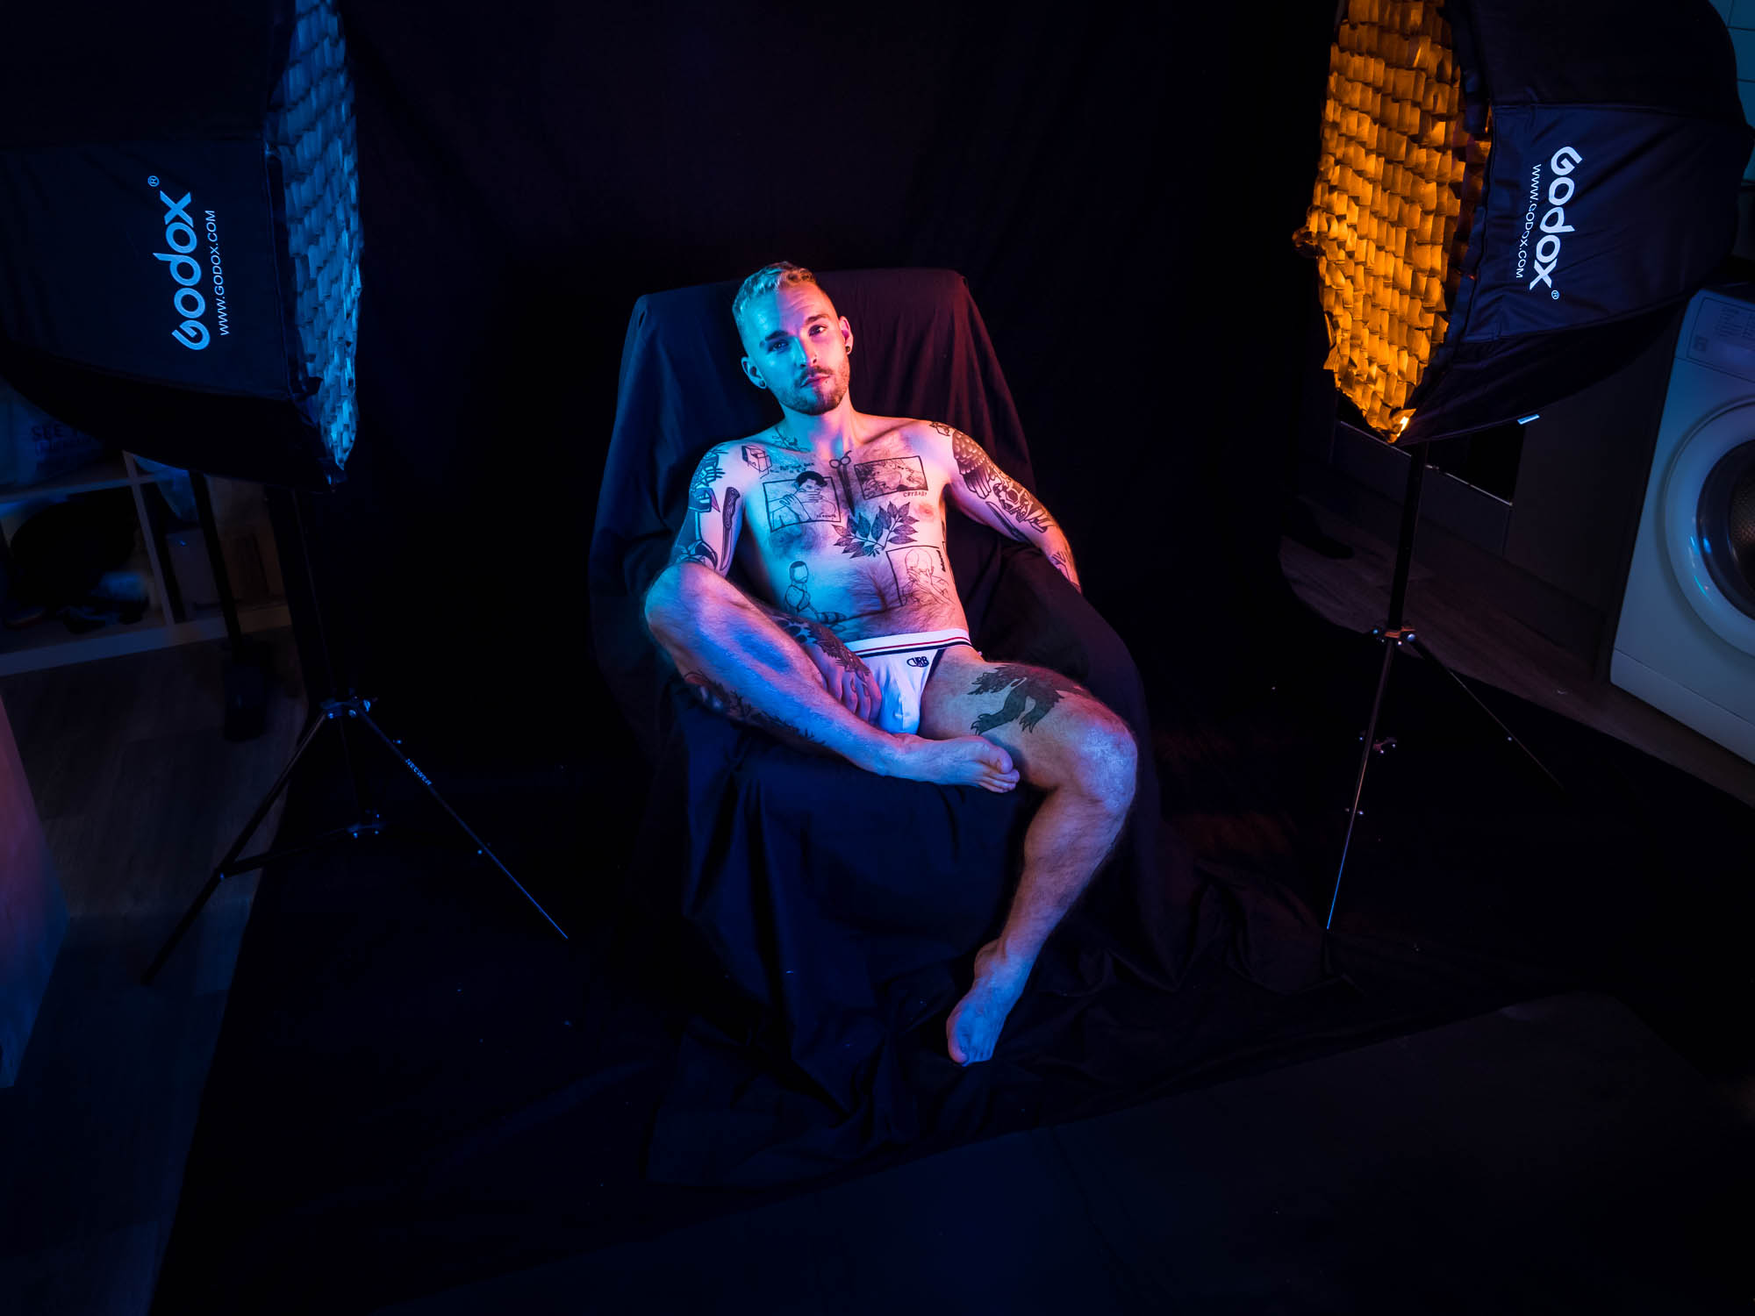
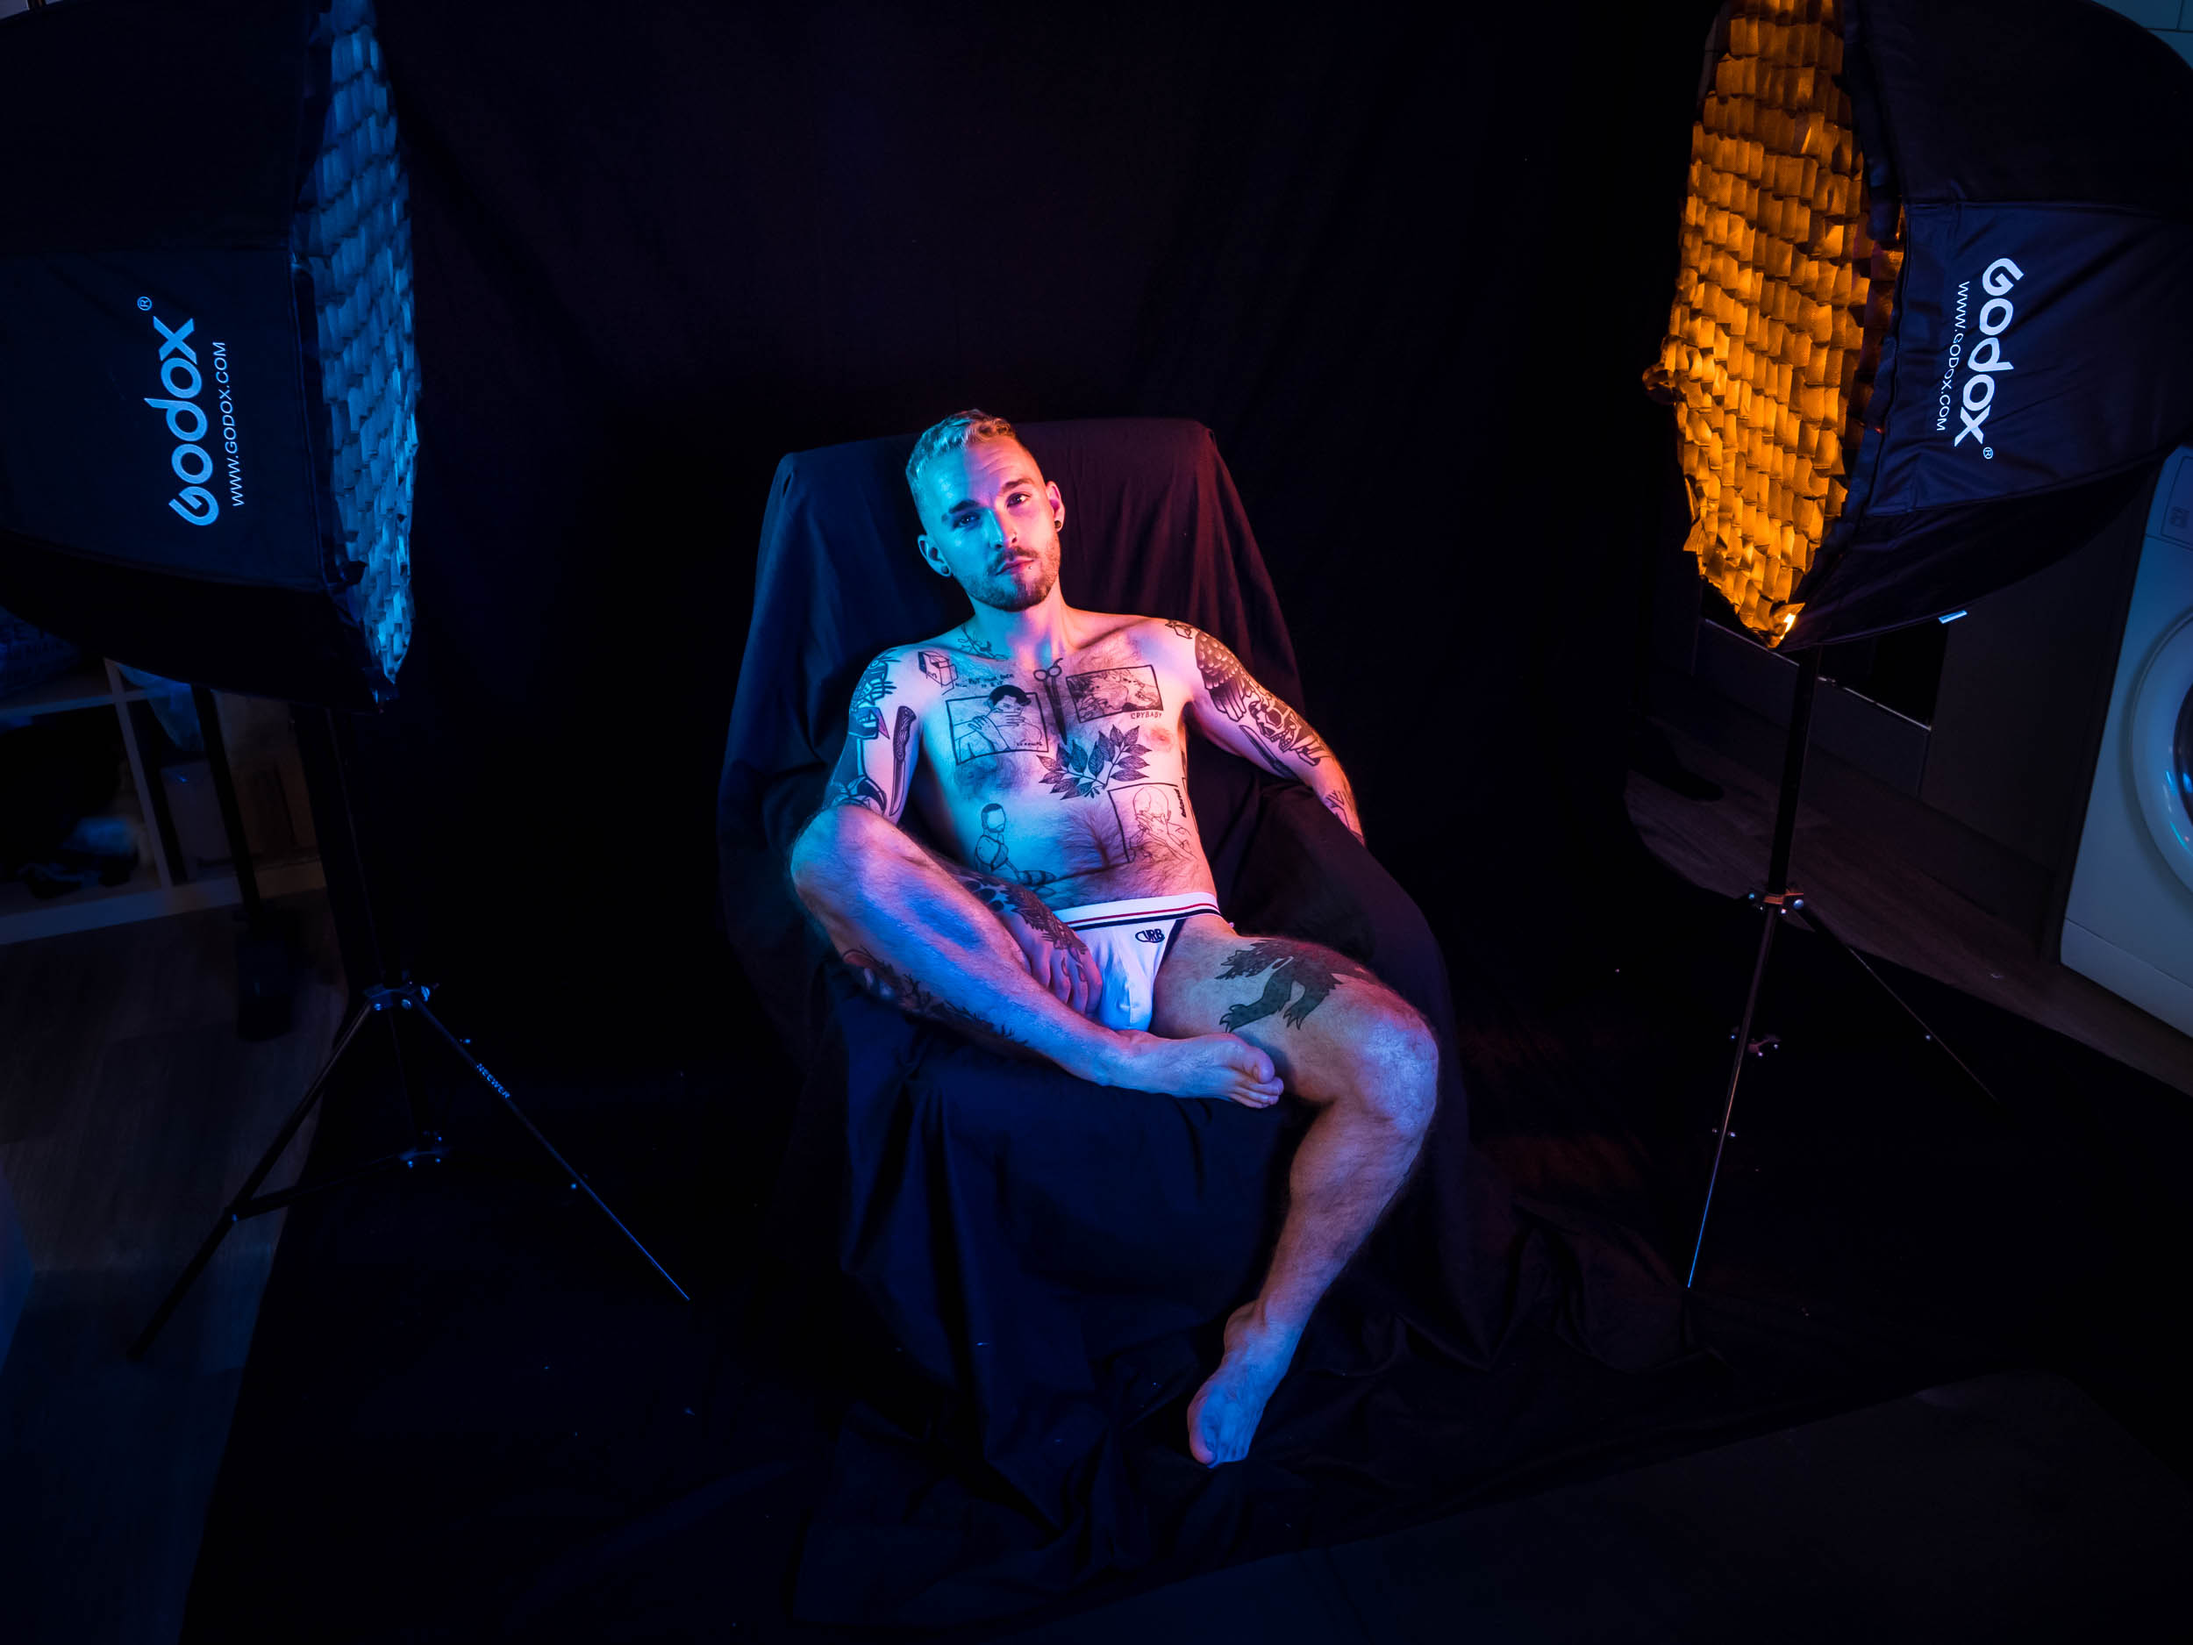
Larger header images

diff --git a/src/pages/index.js b/src/pages/index.js
@@ -80,7 +80,7 @@ const IndexPage = () => {
       }
       heroBG: file(relativePath: { eq: "header-kage.jpg" }) {
         childImageSharp {
-          fluid(maxWidth: 1920) {
+          fluid(maxWidth: 2200) {
             ...GatsbyImageSharpFluid
           }
         }
